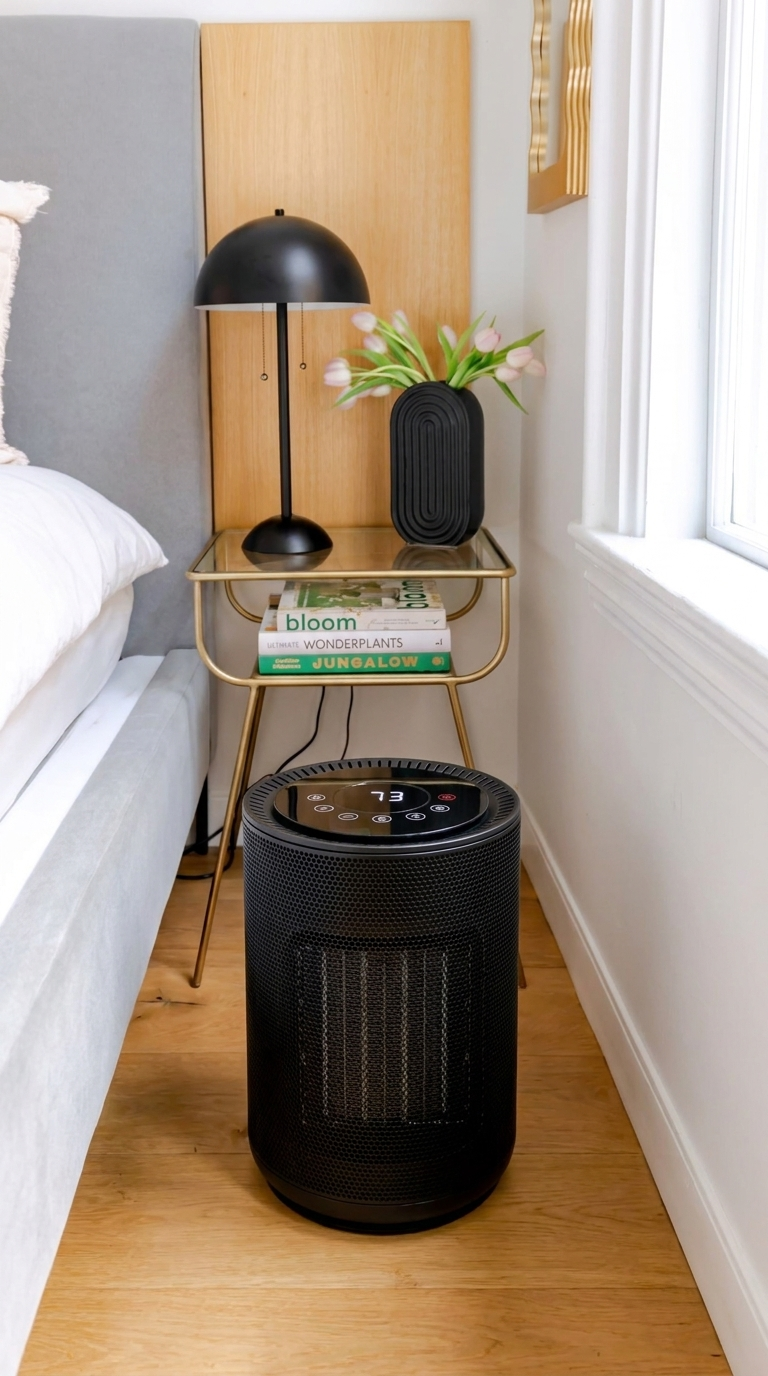
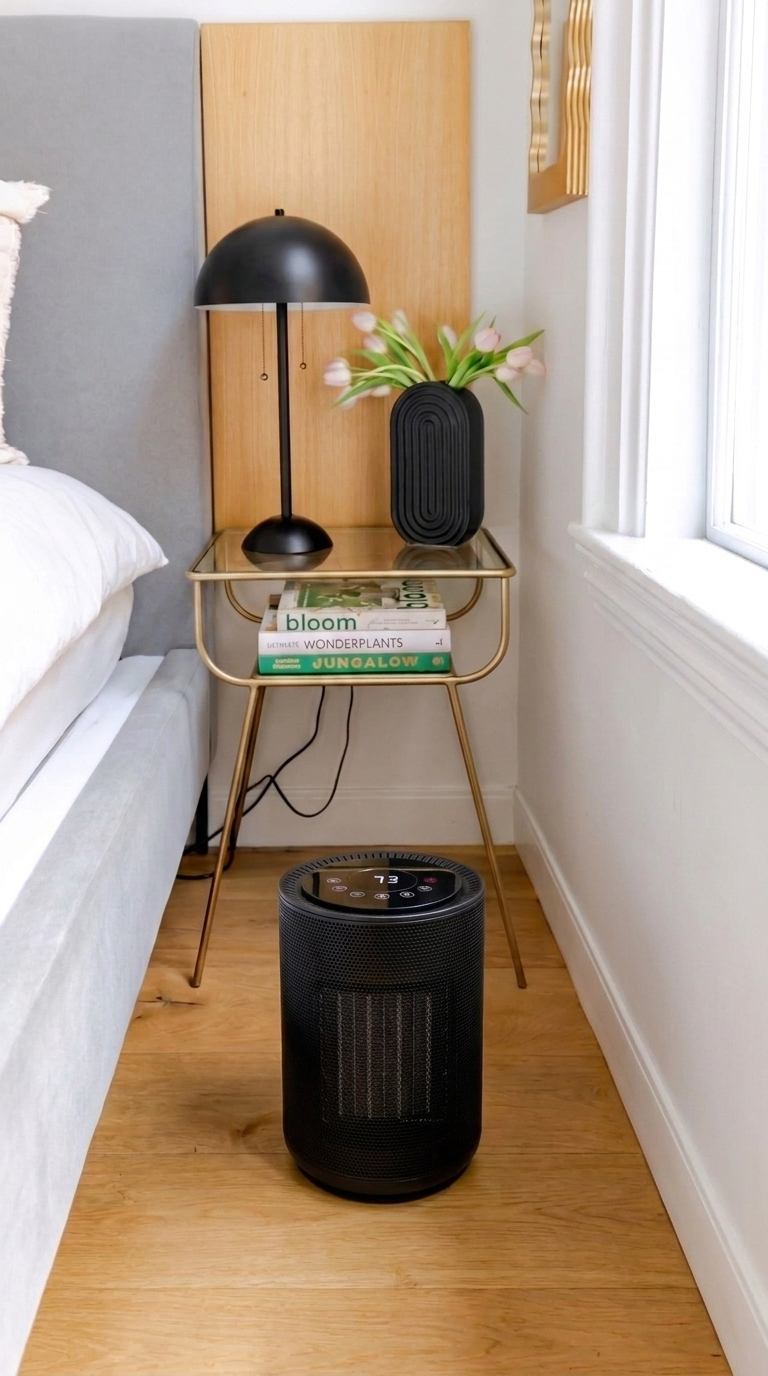
Space heater (Grace): S4/S9 heater resized by edit ($0.18)
Claude-Session: https://claude.ai/code/session_0149pjQWv7YKHQYvzBMDrYvE

Changed region(s): [[0.0938, 0.5312, 0.6875, 0.9062], [0.8438, 0.625, 0.875, 0.6562]]

diff --git a/ugc/space-heater-ptc/preview/index.html b/ugc/space-heater-ptc/preview/index.html
@@ -31,12 +31,18 @@ blockquote{margin:0;padding:12px 14px;background:var(--bg);border-radius:8px;fon
 </style>
 <main>
 <header style="display:grid;gap:6px">
-<p class="muted">Grace · Antarctic Star 1500W PTC heater (black, touchscreen) · 2026-10-19 · round 6 (cut 1)</p>
+<p class="muted">Grace · Antarctic Star 1500W PTC heater (black, touchscreen) · 2026-10-19 · round 7 (S4/S9 size fix)</p>
 <h1>Space heater: hands-only video</h1>
 <p class="muted">Nothing paid yet. This page is the plan, the reference-sheet comparison and the free room picks.</p>
 </header>
 
-<section class="card decide" id="cut1">
+<section class="card decide" id="s49">
+<h2>S4 + S9 size fix (stills)</h2>
+<p>Left to right: S4 before, S4 after, S9 before, S9 after. Only the heater was resized (one edit each, $0.18 total). The space it used to cover (floor, cable, nightstand legs, rug, sofa) is clean at full size.</p>
+<figure><img src="s49_fix.jpg" alt="S4 and S9 before and after"><figcaption>S4 now reaches about half the nightstand legs; S9 sits below the sofa seat, closer to the camera.</figcaption></figure>
+<p><strong>Next on your OK:</strong> 2 new Kling clips from these (80 credits), re-cut, QC. Kie so far $3.30.</p>
+</section>
+<section class="card" id="cut1">
 <h2>Cut 1: the video (30.1 s)</h2>
 <video controls playsinline preload="metadata" poster="heater_V1_poster.jpg" src="heater_V1_preview.mp4" style="width:100%;max-width:420px;border-radius:8px;background:#000"></video>
 <p class="muted">Preview copy for the page (smaller file). The full-quality final with the AI finish goes to Drive after your OK.</p>

diff --git a/ugc/space-heater-ptc/tools/review_template.html b/ugc/space-heater-ptc/tools/review_template.html
@@ -31,12 +31,18 @@ blockquote{margin:0;padding:12px 14px;background:var(--bg);border-radius:8px;fon
 </style>
 <main>
 <header style="display:grid;gap:6px">
-<p class="muted">Grace · Antarctic Star 1500W PTC heater (black, touchscreen) · 2026-10-19 · round 6 (cut 1)</p>
+<p class="muted">Grace · Antarctic Star 1500W PTC heater (black, touchscreen) · 2026-10-19 · round 7 (S4/S9 size fix)</p>
 <h1>Space heater: hands-only video</h1>
 <p class="muted">Nothing paid yet. This page is the plan, the reference-sheet comparison and the free room picks.</p>
 </header>
 
-<section class="card decide" id="cut1">
+<section class="card decide" id="s49">
+<h2>S4 + S9 size fix (stills)</h2>
+<p>Left to right: S4 before, S4 after, S9 before, S9 after. Only the heater was resized (one edit each, $0.18 total). The space it used to cover (floor, cable, nightstand legs, rug, sofa) is clean at full size.</p>
+<figure><img src="s49_fix.jpg" alt="S4 and S9 before and after"><figcaption>S4 now reaches about half the nightstand legs; S9 sits below the sofa seat, closer to the camera.</figcaption></figure>
+<p><strong>Next on your OK:</strong> 2 new Kling clips from these (80 credits), re-cut, QC. Kie so far $3.30.</p>
+</section>
+<section class="card" id="cut1">
 <h2>Cut 1: the video (30.1 s)</h2>
 <video controls playsinline preload="metadata" poster="heater_V1_poster.jpg" src="heater_V1_preview.mp4" style="width:100%;max-width:420px;border-radius:8px;background:#000"></video>
 <p class="muted">Preview copy for the page (smaller file). The full-quality final with the AI finish goes to Drive after your OK.</p>

diff --git a/ugc/space-heater-ptc/README.md b/ugc/space-heater-ptc/README.md
@@ -5,8 +5,8 @@ everything, 3 different scripts styles/angles", plus "provide a reference sheet 
 Route: `ugc-product-ad` hands-only demo over a voiceover, the LGXNDS v6 method (Gemini 3 Pro Image stills from the product sheet, no
 pasted label; hand clips Seedance 2.0 Mini reference mode on Kie; hand-free clips Kling 3.0 on Ralph's account). VO Grace C, -16 LUFS.
 
-Status: 2026-10-19 CUT 1 sent for review (out/heater_V1.mp4, 30.1 s, AI finish, QC all clear qc/QC.md, cut gate OK). Next: Ralph notes -> on OK, Drive "Grace Tiktok assets"/heater folder (CURRENT video + script doc).
-Spent: Kie $3.12 (stills $1.89 incl. approved redos + 1 edit, clips $1.23; balance 874 cr), Kling 200 cr (528 -> 328, 40 per turbo 5 s clip). Quote $2.13 Kie + ~160 Kling + 580 EL chars. Review page https://claude.ai/artifact/Domjukqum8q4ee1X6AhqMG
+Status: 2026-10-19 cut 1 reviewed: Ralph S4/S9 heater too big -> edits done ($0.18, stills/V1S4.png + V1S9.png, originals in stills/r1b), waiting on his still OK, then 2 Kling clips (80 cr) + re-cut -> Drive.
+Spent: Kie $3.30 (+$0.18 S4/S9 size edits; stills $1.89 incl. approved redos + 1 edit, clips $1.23; balance 874 cr), Kling 200 cr (528 -> 328, 40 per turbo 5 s clip). Quote $2.13 Kie + ~160 Kling + 580 EL chars. Review page https://claude.ai/artifact/Domjukqum8q4ee1X6AhqMG
 
 ## Files
 - `refs/listing/` real listing images (g01-g13 gallery, d01-d07 description). `refs/ralph_sheet.jpg` Ralph's AI sheet.
